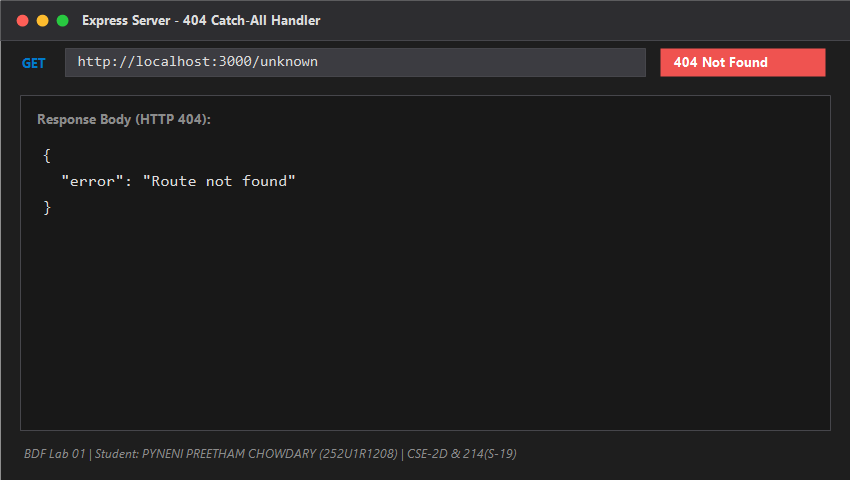
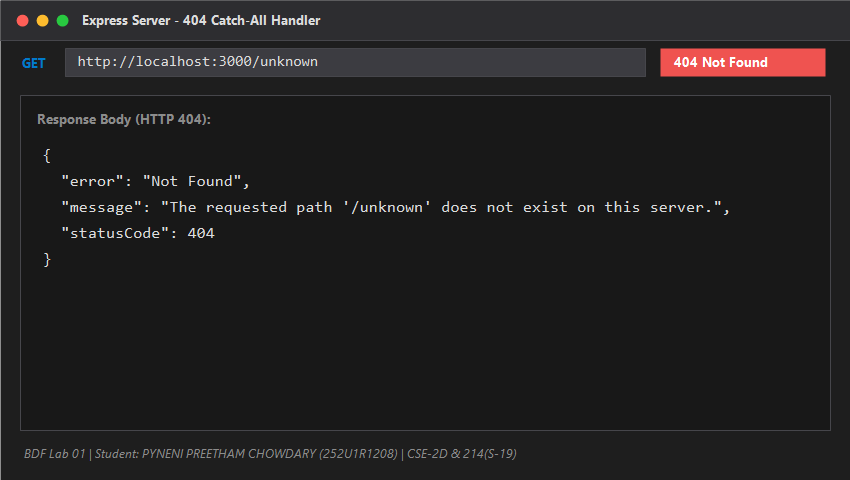
Enhance 404 handler to match sample repo format and add Task 3 http-server.js

Changed region(s): [[0.0612, 0.3438, 0.4894, 0.5], [0.52, 0.4062, 0.8259, 0.4375]]

diff --git a/lab-01/server.js b/lab-01/server.js
@@ -56,13 +56,25 @@ app.get('/time', (req, res) => {
 });
 
 /**
- * Route: Unknown / Catch-All Routes
- * Description: Handles any undefined route and returns a 404 status code
+ * Route: GET /date (Optional / NxtWave format)
+ * Description: Returns today's date formatted as text
+ * HTTP Status: 200 OK
+ */
+app.get('/date', (req, res) => {
+  const date = new Date();
+  res.status(200).send(`Today's date is ${date}`);
+});
+
+/**
+ * Route: Unknown / Catch-All Routes (404 Error Handler)
+ * Description: Handles any undefined route and displays a detailed 404 error
  * HTTP Status: 404 Not Found
  */
 app.use((req, res) => {
   res.status(404).json({
-    error: 'Route not found'
+    error: 'Not Found',
+    message: `The requested path '${req.originalUrl}' does not exist on this server.`,
+    statusCode: 404
   });
 });
 

diff --git a/lab-01/http-server.js b/lab-01/http-server.js
@@ -1,0 +1,13 @@
+const http = require('http');
+
+const PORT = process.env.PORT || 3000;
+
+// Task 3: Plain server with http.createServer that replies "Hello" and listens on port 3000
+const server = http.createServer((req, res) => {
+  res.writeHead(200, { 'Content-Type': 'text/plain' });
+  res.end('Hello');
+});
+
+server.listen(PORT, () => {
+  console.log(`Plain HTTP server running at http://localhost:${PORT}/`);
+});

diff --git a/lab-01/README.md b/lab-01/README.md
@@ -115,7 +115,8 @@ Follow these steps to set up the project locally:
 | **GET** | `/` | Returns welcome message | `200 OK` | Text / Plain |
 | **GET** | `/about` | Returns student name, registration number, and section | `200 OK` | JSON |
 | **GET** | `/time` | Returns current server date and time using JavaScript `new Date()` | `200 OK` | JSON |
-| **GET** | *Any unknown route* | Handles undefined routes with catch-all middleware | `404 Not Found` | JSON |
+| **GET** | `/date` | Returns today's date formatted as text | `200 OK` | Text / Plain |
+| **GET** | *Any unknown route* | Handles undefined routes with 404 error handler | `404 Not Found` | JSON |
 
 ### Sample Response Payloads
 
@@ -143,10 +144,17 @@ Follow these steps to set up the project locally:
   }
   ```
 
-- **GET `/unknown` (404 Fallback)**
+- **GET `/date`**
+  ```text
+  Today's date is Sun Nov 01 2026 16:34:00 GMT+0530 (India Standard Time)
+  ```
+
+- **GET `/unknown` (404 Error Handler)**
   ```json
   {
-    "error": "Route not found"
+    "error": "Not Found",
+    "message": "The requested path '/unknown' does not exist on this server.",
+    "statusCode": 404
   }
   ```
 
